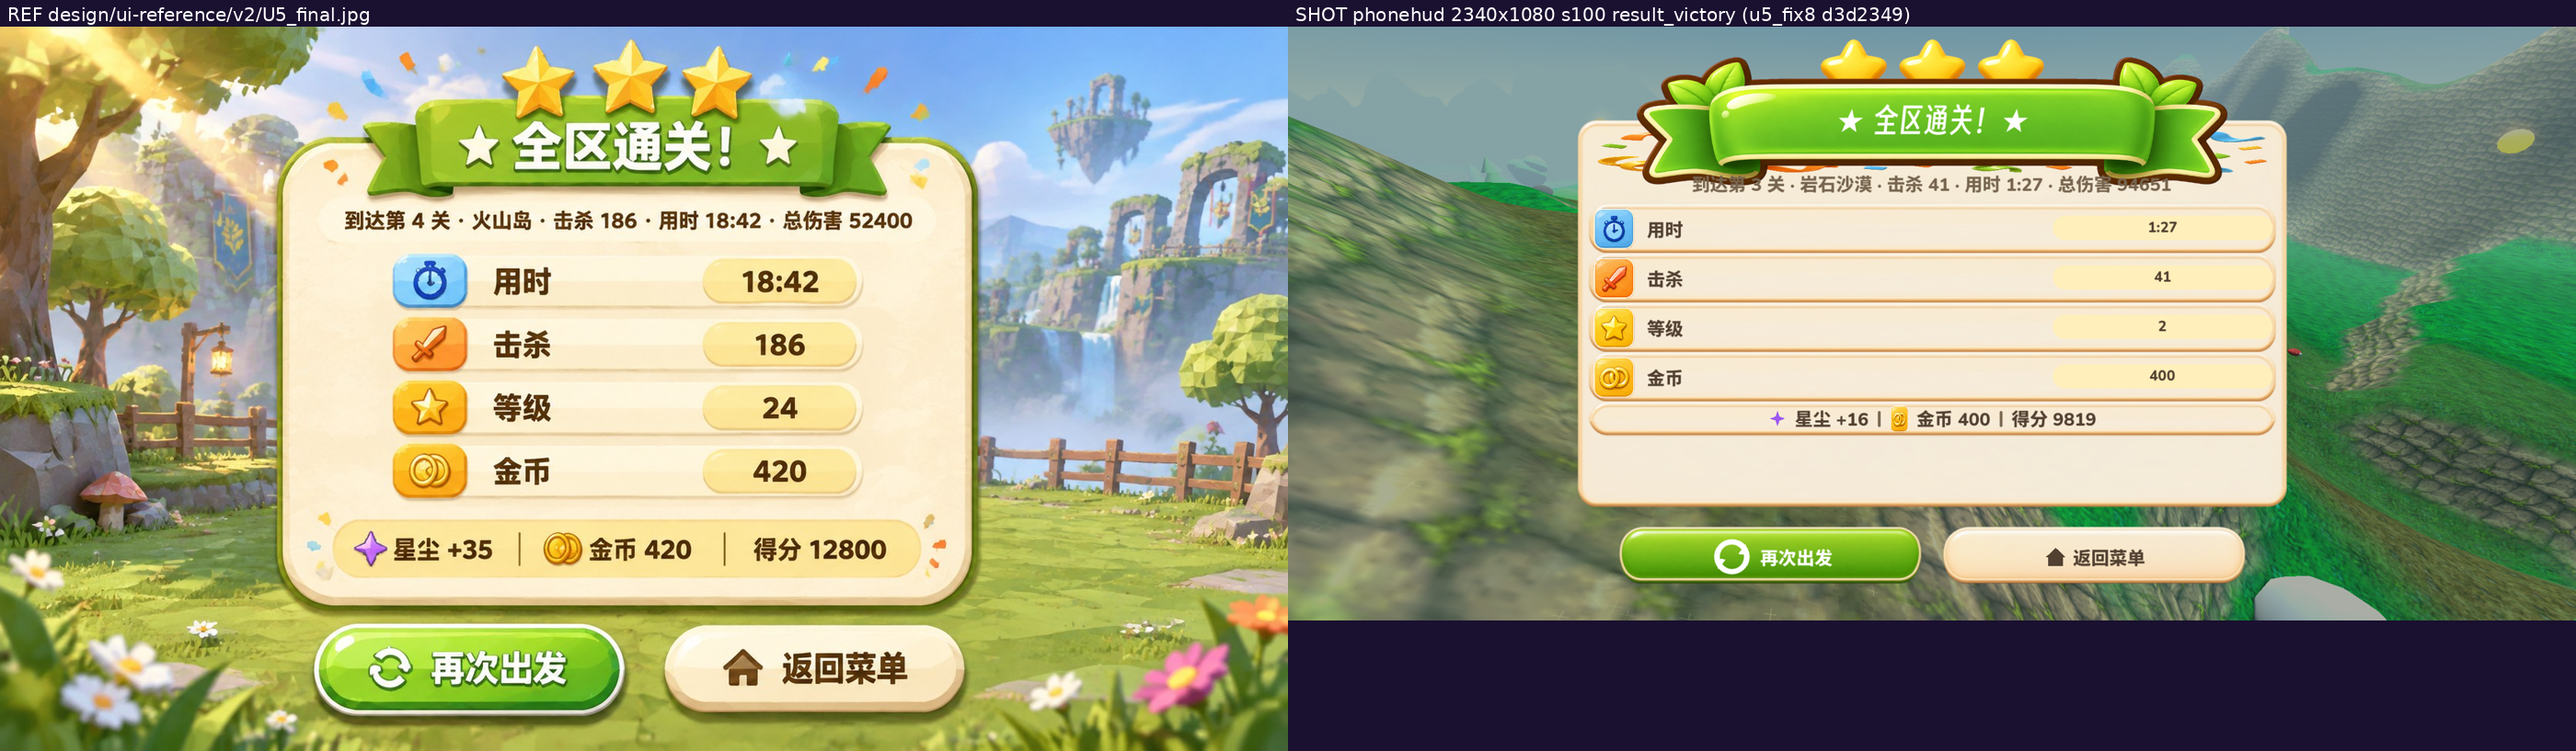
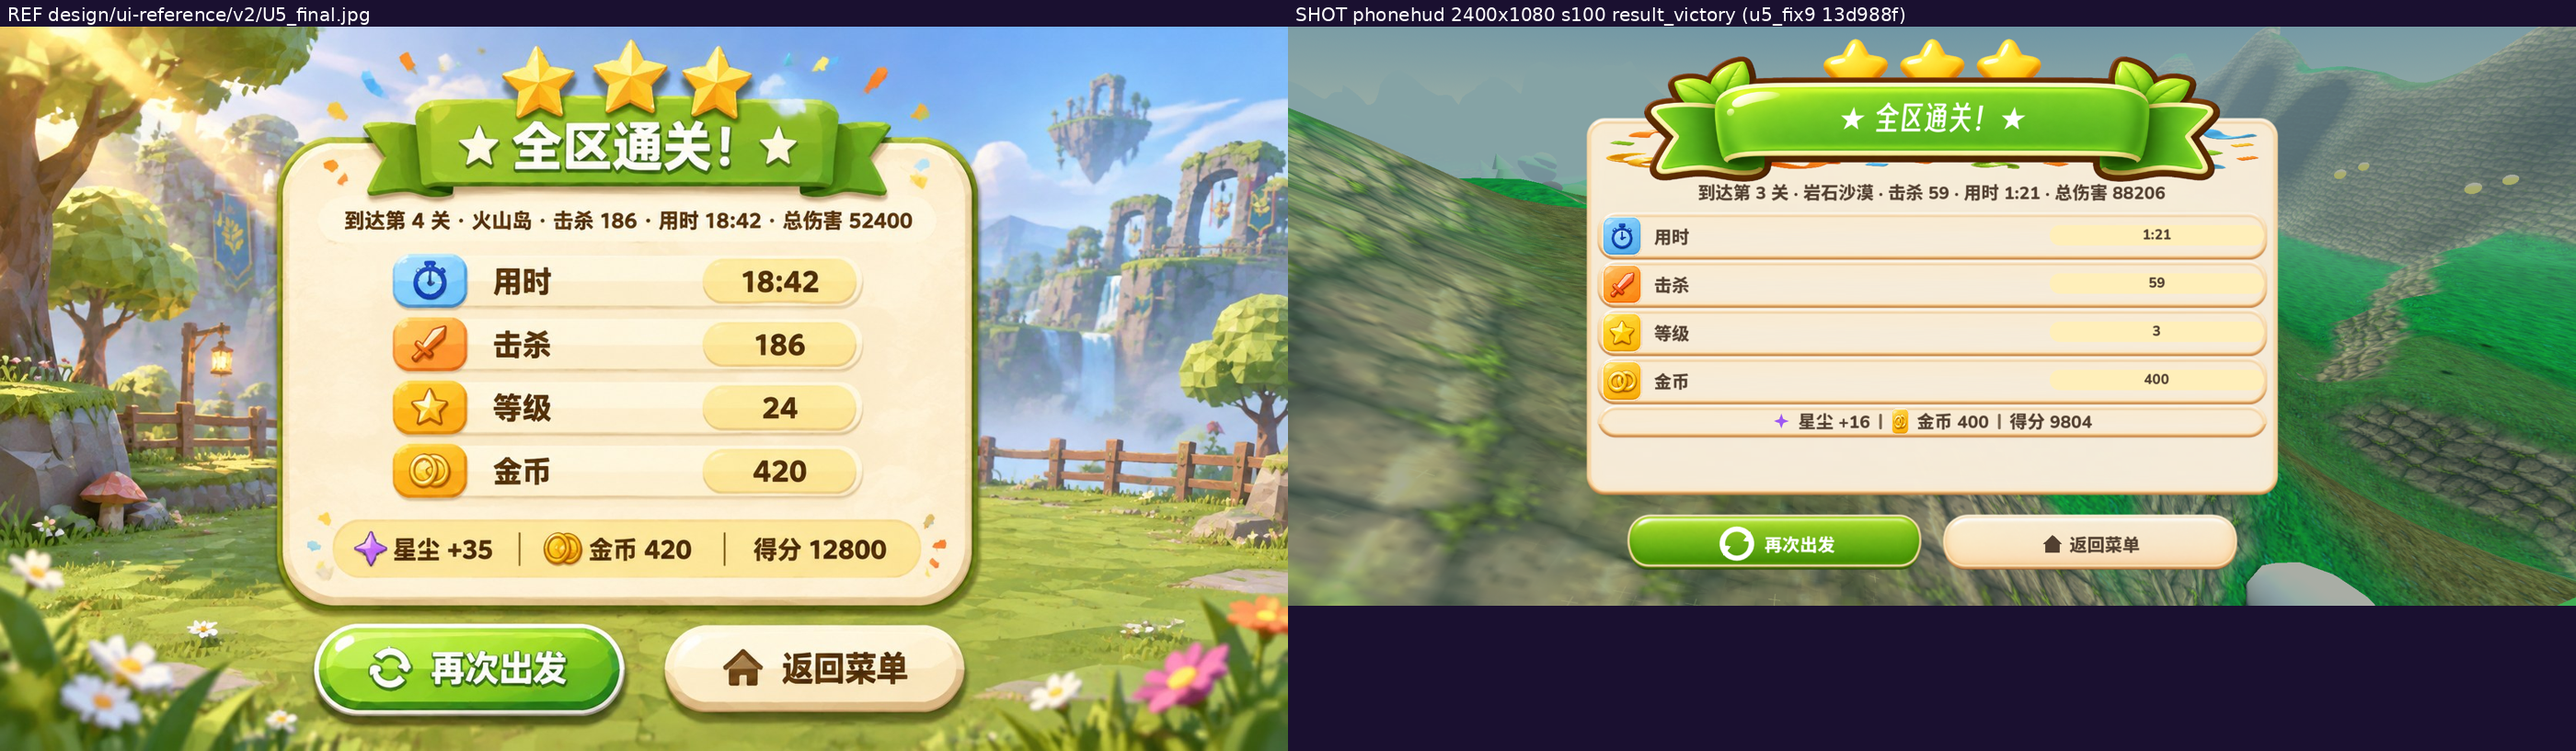
Ledger: U5 fix9 verdict (not closed) + fix10 prescription; fix9 compares

diff --git a/design/ui-alignment-progress.md b/design/ui-alignment-progress.md
@@ -865,3 +865,25 @@ U1 已重开，U3 不得开工（见「关闭门」）。第 9 轮：2340 复验
   - 验证批 Test/u5_fix9_run.sh 已于 07:31:56 detached 启动（HEAD 13d988f，2400 s100 腿在跑，Godot PID 1670667），.done 路径 Test/out/u5_fix9.done，双腿 2400 s100 → 2340 s100，预计约 08:15 完成。
 - 本轮提交（align-fix13，已推送，`git ls-remote` 核验）：13d988f fix9 代码＋脚本；本节台账＋fix8 双档 compare（`design/ui-reference/compare/U5.png`、`U5_2400.png`，由 fix8 实拍重建；与本机构建逐字节一致——构建输入即 NUC 快照，md5 已核对）。
 - 断点：下一轮先读 Test/out/u5_fix9.done（两档绿、FAIL=0；checks 1549 与 1564 均接受，以 FAIL=0 为准），取 `mobile_p5_result_victory_*_s100_i0.png` 双档快照，行列扫描复核摘要行（字顶与缎带尾端／棕边全宽留白约 20px＋、字色深棕）／值 pill 约 38 屏 px／行 pitch 约 90／汇总 pill 位置与空奶油带／面板顶约 171、面板底约 867／钮顶约 914、钮底约 1014／星仍压缎带且未被带体埋住后重建 compare/U5.png 与 compare/U5_2400.png（Test/make_compare_u5.py）、逐项亲检再议 U5 签核；绿叶残差一并裁定。Notion 对齐单未动（U5 未关闭）。
+
+## U5 fix9 亲检裁定：未关闭，fix10 处方（2026-11-15 08:1x–09:0x 轮，worker）
+
+- 验证批 `Test/u5_fix9_run.sh`（HEAD 13d988f）已 ALLDONE 08:00:29：2400 s100 **1564/0**、2340 s100 **1549/0**，双腿 rc=0（尾部 ERROR 行为 Godot 退出时资源清理噪音，与既往轮次一致、非检查失败）。防撞：起跑时无在跑批次，本轮起跑时亦无 Godot 在跑，无双开。
+- 取图：`Test/pull_from_nuc.sh u5_fix9` 拉回双档 `mobile_p5_result_victory_*_s100_i0.png`（2 文件、4,971,262 字节、逐字节大小核验通过），md5 与 NUC 侧一致（2340: 8f29567c…、2400: 3f6e427e…）。复核全部在原始 PNG 与原始参考 `design/ui-reference/v2/U5_final.jpg`（1672×941）上行列扫描＋2× 放大裁切＋双档 compare 亲看。
+- fix9 四项逐项复核：
+  - ① 摘要行让位 ✓：字形顶 294（fix8 为 ~275），缎带尾端／棕边在文本区内最低 ~288，全宽无压字；2× 裁切＋双档 compare 目视均留白清晰。
+  - ② 摘要行字色 ✓：中值 (84,65,50) 深棕，参考字形中值 (86,54,18)；fix8 的洗白灰棕 (119,101,79) 已纠正。
+  - ③ 值 pill ✗（方向反了——见下纠正）：实拍 38px 高 × 400px 宽、填色 (255,239,186)；参考 55px 高 × ~213px 宽、填色 (252,232,159)。数字字形亦偏小（实拍约 20px vs 参考约 30px）。2× 放大裁切实证：参考为敦实短胶囊，实拍为扁长条。
+  - ④ 底 spacer 69→53：面板底 867 不动，但汇总 pill 下空奶油带仍 ~102px（765..867），参考仅 ~18px（汇总 pill 底 ~751、面板底 ~769）——未达标。
+  - ⑤ 绿叶 ✗：缎带两端绿叶簇仍在（带顶上方 y<112 绿像素聚于 x 700..899 与 1500..2199 两簇）；参考缎带两端素面、无叶。2× 裁切＋双档 compare 同现。
+- 其余项复核（均与 fix8 验收态一致）：行 pitch 90（参考 ~82.5 原始 px；按 %H 计 8.33% vs 8.77%，近）；三星压缎带、未被带体埋住 ✓；钮顶 ~914、钮底 ~1010–1014（%H 84.6–93.5% vs 参考 84.6–94.0%）✓；缎带主带 112..230、高 119、中心 ~171 压面板顶沿 ✓；四行单栏、汇总 pill、HUD 已藏 ✓。面板高 696px（64.4%H）与参考 606px（64.4%H）按 %H 计一致；面板底 867（80.3%H）与参考 769（81.7%H）亦近——**面板本身位置无问题，问题在内容偏上、pill 偏扁**。
+- **测量纠正（fix8 两处参考数作废，后续轮次勿再引用）**：① fix8「值 pill 参考约 38（3.51%H）」错误——原始图遮罩分段＋2× 放大实测参考 pill 为 55px（5.84%H），fix9 按 38 瘦身方向反了。② fix8「面板底下空奶油带参考 ~119」错误——原始图边框检测实测参考汇总 pill 底 ~751、面板底 ~769，空带仅 ~18px；fix8 的 spacer 处方即建立在该错误读数上。本轮口径：两图高宽比不同（2400×1080 vs 1672×941），纵向以 %H 为准、原始 px 数并列备查。
+- **未关闭：三处可见残差（双档 compare 同现）**：① 值 pill 过扁过宽过淡（38×400、淡奶油黄 vs 参考 55×~213、饱和金黄）；② 缎带两端绿叶簇（参考无）；③ 内容偏上、面板底空带过大（汇总 pill 底 765、空带 ~102px vs 参考 ~18px；摘要行顶 294、参考 33.3%H≈359px 位）。
+- fix10 处方（只动表现层，不动玩法数值、不动检查；U5 仍不许跳屏；目标数按 %H 口径、原始 px 参考数并列）：
+  - ① 值 pill：高 38 → ~60px（5.84%H；原始 px 参考 55），宽 400 → ~305px（12.7%W；现 pill 宽疑为固定／最小宽，须查 chip() 调用处定宽来源、改为内容驱动或定宽 ~305px），填色向 (252,232,159) 加深，数字字号随 pill 加高（字形高约占 pill 高 55%）。
+  - ② 内容整体下移 ~55px：摘要行顶 294 → ~349px（33%H；crest 再加高或缎带下加空隙，须保持与缎带尾端留白≥20px）；行 pitch 90 → ~95px（8.77%H）；汇总 pill 高 65 → ~80px（8%H；原始 px 参考 ~75）。
+  - ③ 底 spacer 53 → ~30 设计 px（对冲内容下移量，面板底保持 ~867、面板顶／按钮不动）；目标汇总 pill 底 ~842、面板底下空带 ~25px（参考 ~18px）。
+  - ④ 绿叶：PIL 透明化 `ribbon_green.png` 两簇叶区（须 NUC 侧改图 → 重新生成 `.import` → `.import` 回拉入库再提交；勿只提交新纹理不带 `.import`，否则下次同步清掉、贴图静默空白——第一单教训）。
+  - ⑤ 实施后复跑双档 phonehud s100 验证（checks 1549/1564，FAIL=0 为准），重建双档 compare，逐项亲检再议签核。数值自洽校验：摘要行顶 ~349、行中心 ~443/538/633/728、汇总 pill 底 ~842、面板底 867、空带 ~25。
+- 本轮提交（align-fix13，待推送，`git ls-remote` 核验）：本节台账＋fix9 双档 compare（`design/ui-reference/compare/U5.png`、`U5_2400.png`，由 fix9 实拍重建；构建输入即 NUC 快照，md5 已核对）。未动代码、未起新批次。Notion 对齐单未动（U5 未关闭）。
+- 断点：下一轮按上 fix10 处方施工（scripts/world.gd 表现层＋ribbon_green.png 纹理）；先跑 `Test/u5_fix10_parse.sh` 解析门（须新建，仿 fix9），再起双腿验证批（Test/out/u5_fix10.done，2400 s100 → 2340 s100），取 `mobile_p5_result_victory_*_s100_i0.png` 双档快照，行列扫描复核值 pill（高 ~60、宽 ~305、填色金黄）／摘要行顶 ~349／行 pitch ~95／汇总 pill 底 ~842、空带 ~25／面板顶 ~171、面板底 ~867／钮顶 ~914／叶簇已去后重建 compare/U5.png 与 compare/U5_2400.png、逐项亲检再议 U5 签核。Notion 对齐单未动（U5 未关闭）。
